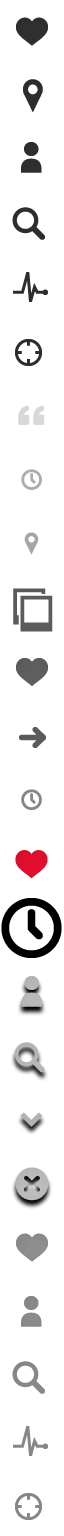
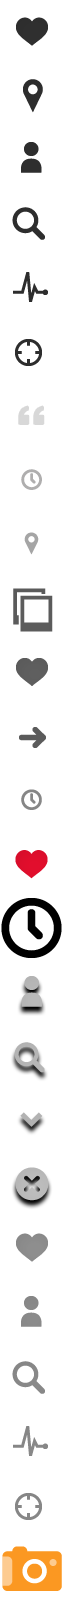
no images found map placeholder

Changed region(s): [[0.0, 0.0, 0.9688, 1.0], [0.25, 0.0, 0.3438, 0.0312], [0.6875, 0.875, 0.75, 0.9062]]

diff --git a/css/theme.css b/css/theme.css
@@ -52,7 +52,7 @@ textarea {
 */
 /* Global BG Colors for Items*/
 /* mess with this yellow at your peril */
-/* Pingy yellow header bars and buttons *//* All colors have a darker tint for when they appear as gradients *//* An orange colour to complement the yellow *//* The Light grey companion to Yellow btns / headers *//* Dark buttons in headers / palettes *//* In this case a calming blue *//* In this case a calming blue *//* Red. argh it burns *//* For Twitter Buttons and Bgs *//* For Facebook Buttons and Bgs *//* For Tumblr Buttons and Bgs *//* For Fsq Buttons and Bgs *//* Global BG Colors for Pages*/
+/* Pingy yellow header bars and buttons *//* All colors have a darker tint for when they appear as gradients *//* An orange colour to complement the yellow *//* The Light grey companion to Yellow btns / headers *//* Dark buttons in headers / palettes *//* In this case a calming blue *//* In this case a calming blue *//* Orange. Danger w/ extra vitamin c *//* For Twitter Buttons and Bgs *//* For Facebook Buttons and Bgs *//* For Tumblr Buttons and Bgs *//* For Fsq Buttons and Bgs *//* Global BG Colors for Pages*/
 /* make a mixin for retina gfx! */
 /* Global Border Colors */
 /* Global Text Shadow Colors */
@@ -2085,6 +2085,37 @@ input.ui-input-text, textarea.ui-input-text {
   height: 88px;
   display: block;
 }
+.photo-map #snaprmapalert {
+  position: absolute;
+  top: 50%;
+  left: 50%;
+  width: 160px;
+  margin-left: -80px;
+  margin-top: -30px;
+}
+.photo-map #snaprmapalert .imagealert {
+  background-color: #ffffff;
+  padding: 6px;
+  padding-left: 48px;
+  position: relative;
+  color: #ff8400;
+  -moz-border-radius: 8px;
+  -webkit-border-radius: 8px;
+  border-radius: 8px;
+  border: solid #ffff00 4px;
+  font-size: 12px;
+  -moz-box-shadow: 0px 4px 6px rgba(0, 0, 0, 0.3);
+  -webkit-box-shadow: 0px 4px 6px rgba(0, 0, 0, 0.3);
+  box-shadow: 0px 4px 6px rgba(0, 0, 0, 0.3);
+}
+.photo-map #snaprmapalert .imagealert .ui-icon-sadface {
+  position: absolute;
+  left: 9px;
+  top: 3px;
+  width: 32px;
+  height: 32px;
+  background-position: 0 -768px;
+}
 .photo-map .inline-footer {
   position: absolute;
   bottom: 0;
@@ -2179,6 +2210,10 @@ input.ui-input-text, textarea.ui-input-text {
   position: absolute;
   left: 8px;
   top: 6px;
+}
+.photo-map .inline-footer .map-time .ui-bar {
+  padding-left: 10px;
+  padding-right: 10px;
 }
 .photo-map .inline-footer .map-time .map-time-btn {
   background: none;

diff --git a/css/theme.less b/css/theme.less
@@ -2078,6 +2078,36 @@ fieldset.ui-controlgroup{
             display: block;
         }
     }
+    
+    #snaprmapalert{
+        position: absolute;
+        top: 50%;
+        left: 50%;
+        width: 160px;
+        margin-left: -80px;
+        margin-top: -30px;
+        .imagealert{
+            background-color: @color-bg-light;
+            padding: 6px;
+            padding-left: 48px;
+            position: relative;
+            color: @color-bg-system-warning-tint;
+            .corner-all(@corner-page-element-rounded);
+            border: solid @color-bg-highlight-main 4px;
+            font-size: @txt-size-small;
+            .box-shadow(0px 4px 6px rgba(0, 0, 0, .3) );
+            .ui-icon-sadface{
+                position: absolute;
+                left: 9px;
+                top: 3px;
+                width: @gfx-extra-icon-sprite-grid;
+                height: @gfx-extra-icon-sprite-grid;
+                background-position: @ei-offset-x @gfx-extra-icon-sprite-mapcamera-y;
+            }
+           
+            
+        }
+    }
 
     .inline-footer{
         position: absolute;
@@ -2164,6 +2194,10 @@ fieldset.ui-controlgroup{
             position: absolute;
             left: 8px;
             top: 6px;
+            .ui-bar{
+                padding-left: 10px;
+                padding-right: 10px;
+            }
             .map-time-btn{
                 background: none;
                 box-shadow: none;

diff --git a/css/variables.css b/css/variables.css
@@ -9,7 +9,7 @@
 */
 /* Global BG Colors for Items*/
 /* mess with this yellow at your peril */
-/* Pingy yellow header bars and buttons *//* All colors have a darker tint for when they appear as gradients *//* An orange colour to complement the yellow *//* The Light grey companion to Yellow btns / headers *//* Dark buttons in headers / palettes *//* In this case a calming blue *//* In this case a calming blue *//* Red. argh it burns *//* For Twitter Buttons and Bgs *//* For Facebook Buttons and Bgs *//* For Tumblr Buttons and Bgs *//* For Fsq Buttons and Bgs *//* Global BG Colors for Pages*/
+/* Pingy yellow header bars and buttons *//* All colors have a darker tint for when they appear as gradients *//* An orange colour to complement the yellow *//* The Light grey companion to Yellow btns / headers *//* Dark buttons in headers / palettes *//* In this case a calming blue *//* In this case a calming blue *//* Orange. Danger w/ extra vitamin c *//* For Twitter Buttons and Bgs *//* For Facebook Buttons and Bgs *//* For Tumblr Buttons and Bgs *//* For Fsq Buttons and Bgs *//* Global BG Colors for Pages*/
 /* make a mixin for retina gfx! */
 /* Global Border Colors */
 /* Global Text Shadow Colors */

diff --git a/index.html b/index.html
@@ -1490,8 +1490,9 @@
             </div>
 
         </div>
-        <div id="snaprmapalert" style="display:none;"> <p class="imagealert">No Images found in this area</p> </div>
+        
         <div id="map-layer" class="photo-map" data-role="content" data-theme="d">
+            
             <a class="x-map-feed ui-bar ui-bar-b top-no-arrow" data-role="button" data-iconpos="right" data-icon="arrow-r" data-theme="b">
                   <span class="ui-icon ui-icon-location extra-icons"></span>
                   <em class="map-description"></em>
@@ -1509,6 +1510,8 @@
                 <button id="map-disambituation-cancel">Cancel</button>
                 </div>
             </div>
+            
+            <div id="snaprmapalert" style="display:none;"> <p class="imagealert"><span class="ui-icon ui-icon-sadface extra-icons"></span>No Images found in this area</p> </div>
 
             <div class="v-map-controls inline-footer ui-body-a trans-bg extra-icons">
                <div class="map-time">

diff --git a/css/variables.less b/css/variables.less
@@ -32,8 +32,8 @@
 @color-bg-system-success: #4185f4; /* In this case a calming blue */ 
 @color-bg-system-success-tint: #194fdc;
 
-@color-bg-system-warning: #ec7738; /* Red. argh it burns */ 
-@color-bg-system-warning-tint: #f33f33;
+@color-bg-system-warning: @color-bg-highlight-secondary; /* Orange. Danger w/ extra vitamin c */ 
+@color-bg-system-warning-tint: @color-bg-highlight-secondary-tint;
 
 
 @color-bg-twitter-main: #68d9ff; /* For Twitter Buttons and Bgs */ 

diff --git a/css/sprites.less b/css/sprites.less
@@ -187,6 +187,8 @@
 @gfx-extra-icon-sprite-search-b-y:      -21 * @gfx-extra-icon-sprite-grid;
 @gfx-extra-icon-sprite-activity-b-y:    -22 * @gfx-extra-icon-sprite-grid;
 @gfx-extra-icon-sprite-location-b-y:    -23 * @gfx-extra-icon-sprite-grid;
+@gfx-extra-icon-sprite-mapcamera-y:     -24 * @gfx-extra-icon-sprite-grid;
+
 
 /* Horizontal offsets for theme swatches / hover states */
 @ei-offset-x: 0;
